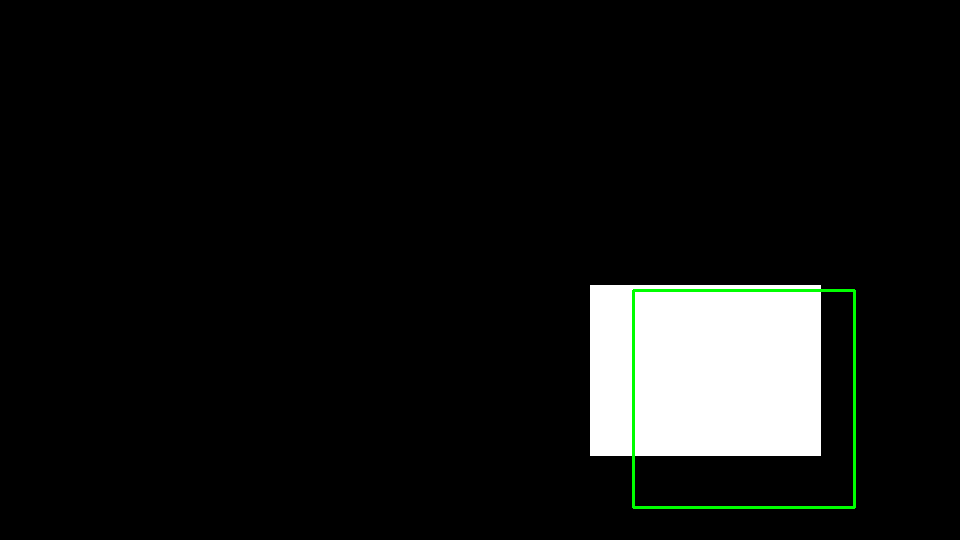
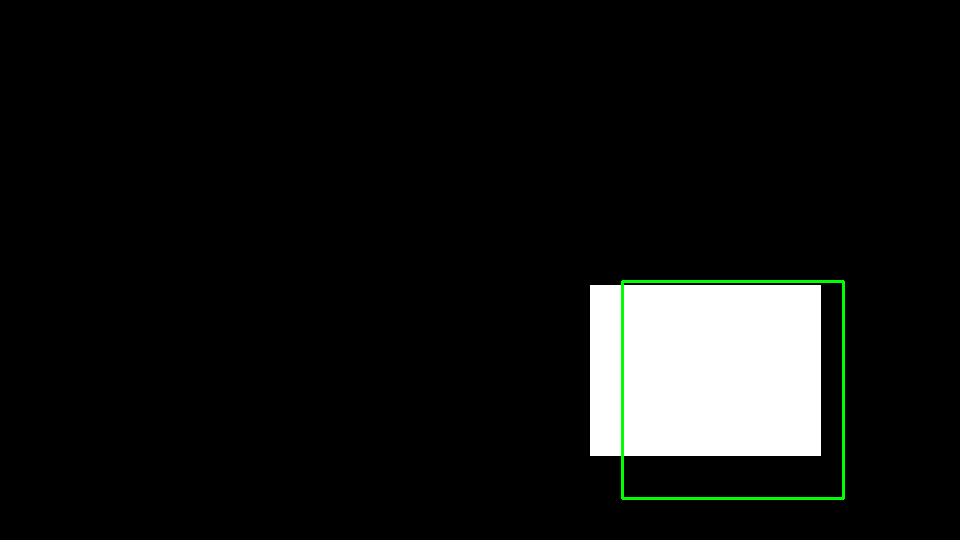
box test update fix

Changed region(s): [[0.6562, 0.5037, 0.9062, 0.9481]]

diff --git a/mission.py b/mission.py
@@ -319,16 +319,21 @@ def landing_zone_box(bgr: np.ndarray) -> tuple[int, int, int, int]:
     width, height = landing_box_size(bgr.shape)
     safe = safe_mask_from_image(bgr)
 
-    kernel = np.ones((height, width), np.uint8)
-    centers = cv2.erode(safe, kernel, iterations=1)
+    safe_f = (safe > 0).astype(np.float32)
+    integral = cv2.integral(safe_f)
 
-    if np.count_nonzero(centers) == 0:
-        return clamp_box((image_w - width) // 2, (image_h - height) // 2, width, height, image_w, image_h)
+    y_slots = image_h - height + 1
+    x_slots = image_w - width + 1
+    counts = (
+        integral[height : height + y_slots, width : width + x_slots]
+        - integral[0:y_slots, width : width + x_slots]
+        - integral[height : height + y_slots, 0:x_slots]
+        + integral[0:y_slots, 0:x_slots]
+    )
 
-    distance = cv2.distanceTransform(centers, cv2.DIST_L2, 5)
-    _, _, _, max_loc = cv2.minMaxLoc(distance)
-    cx, cy = max_loc
-    return clamp_box(int(round(cx - width / 2.0)), int(round(cy - height / 2.0)), width, height, image_w, image_h)
+    flat_idx = int(np.argmax(counts))
+    best_y, best_x = np.unravel_index(flat_idx, counts.shape)
+    return clamp_box(int(best_x), int(best_y), width, height, image_w, image_h)
 
 
 def scale_component(component: Optional[dict], src_shape: tuple[int, int], dst_shape: tuple[int, int, int]) -> Optional[dict]:
